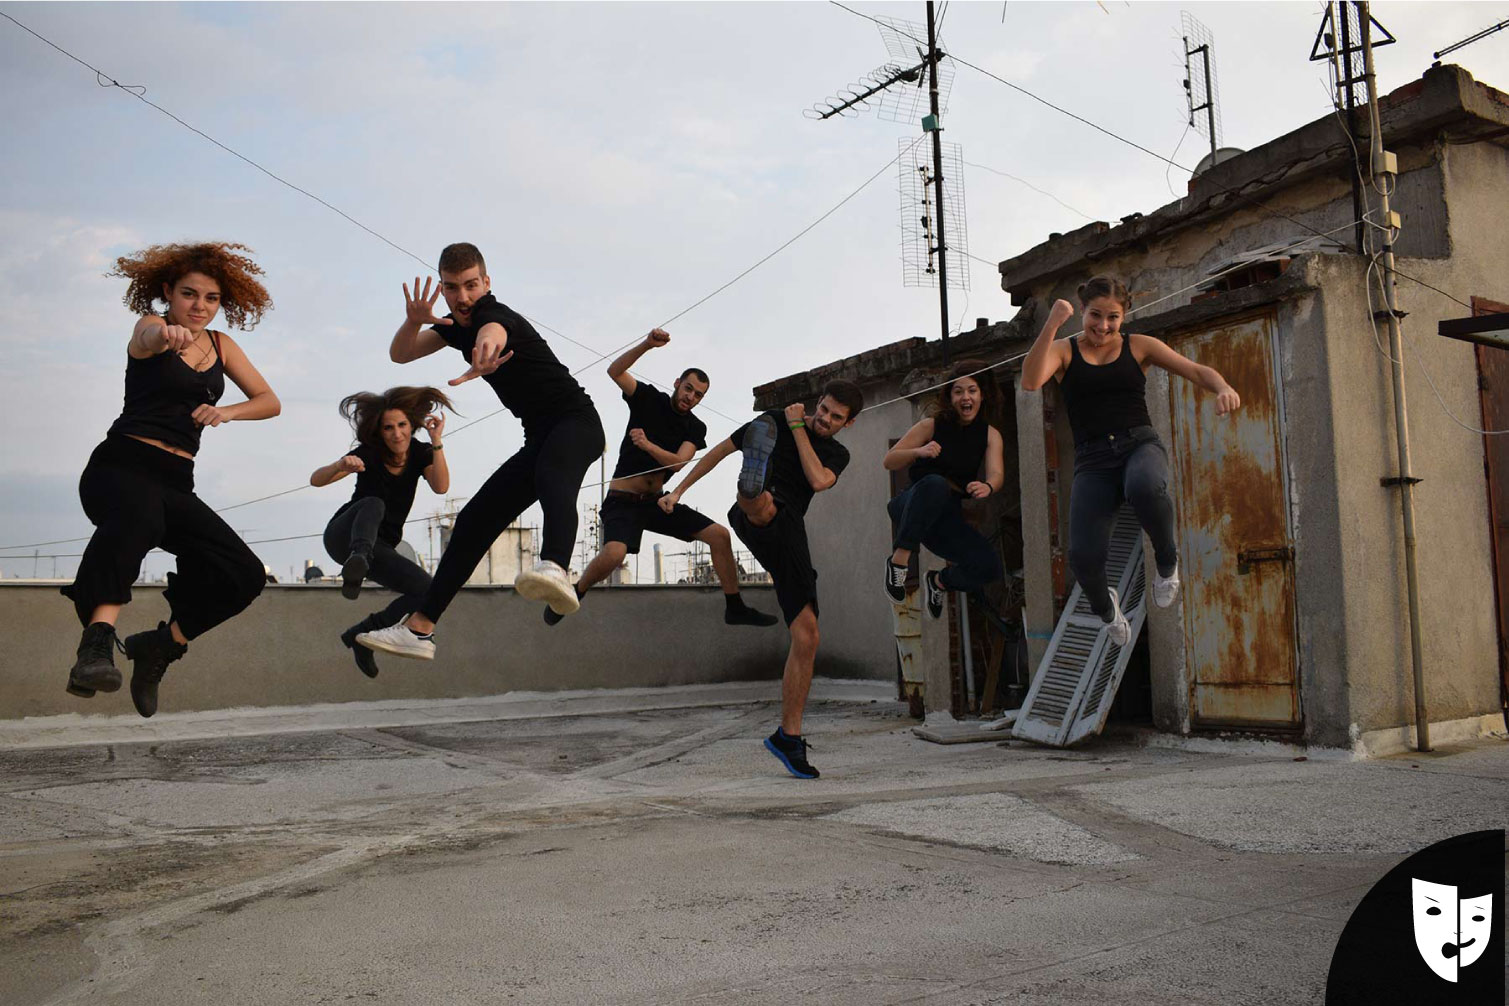
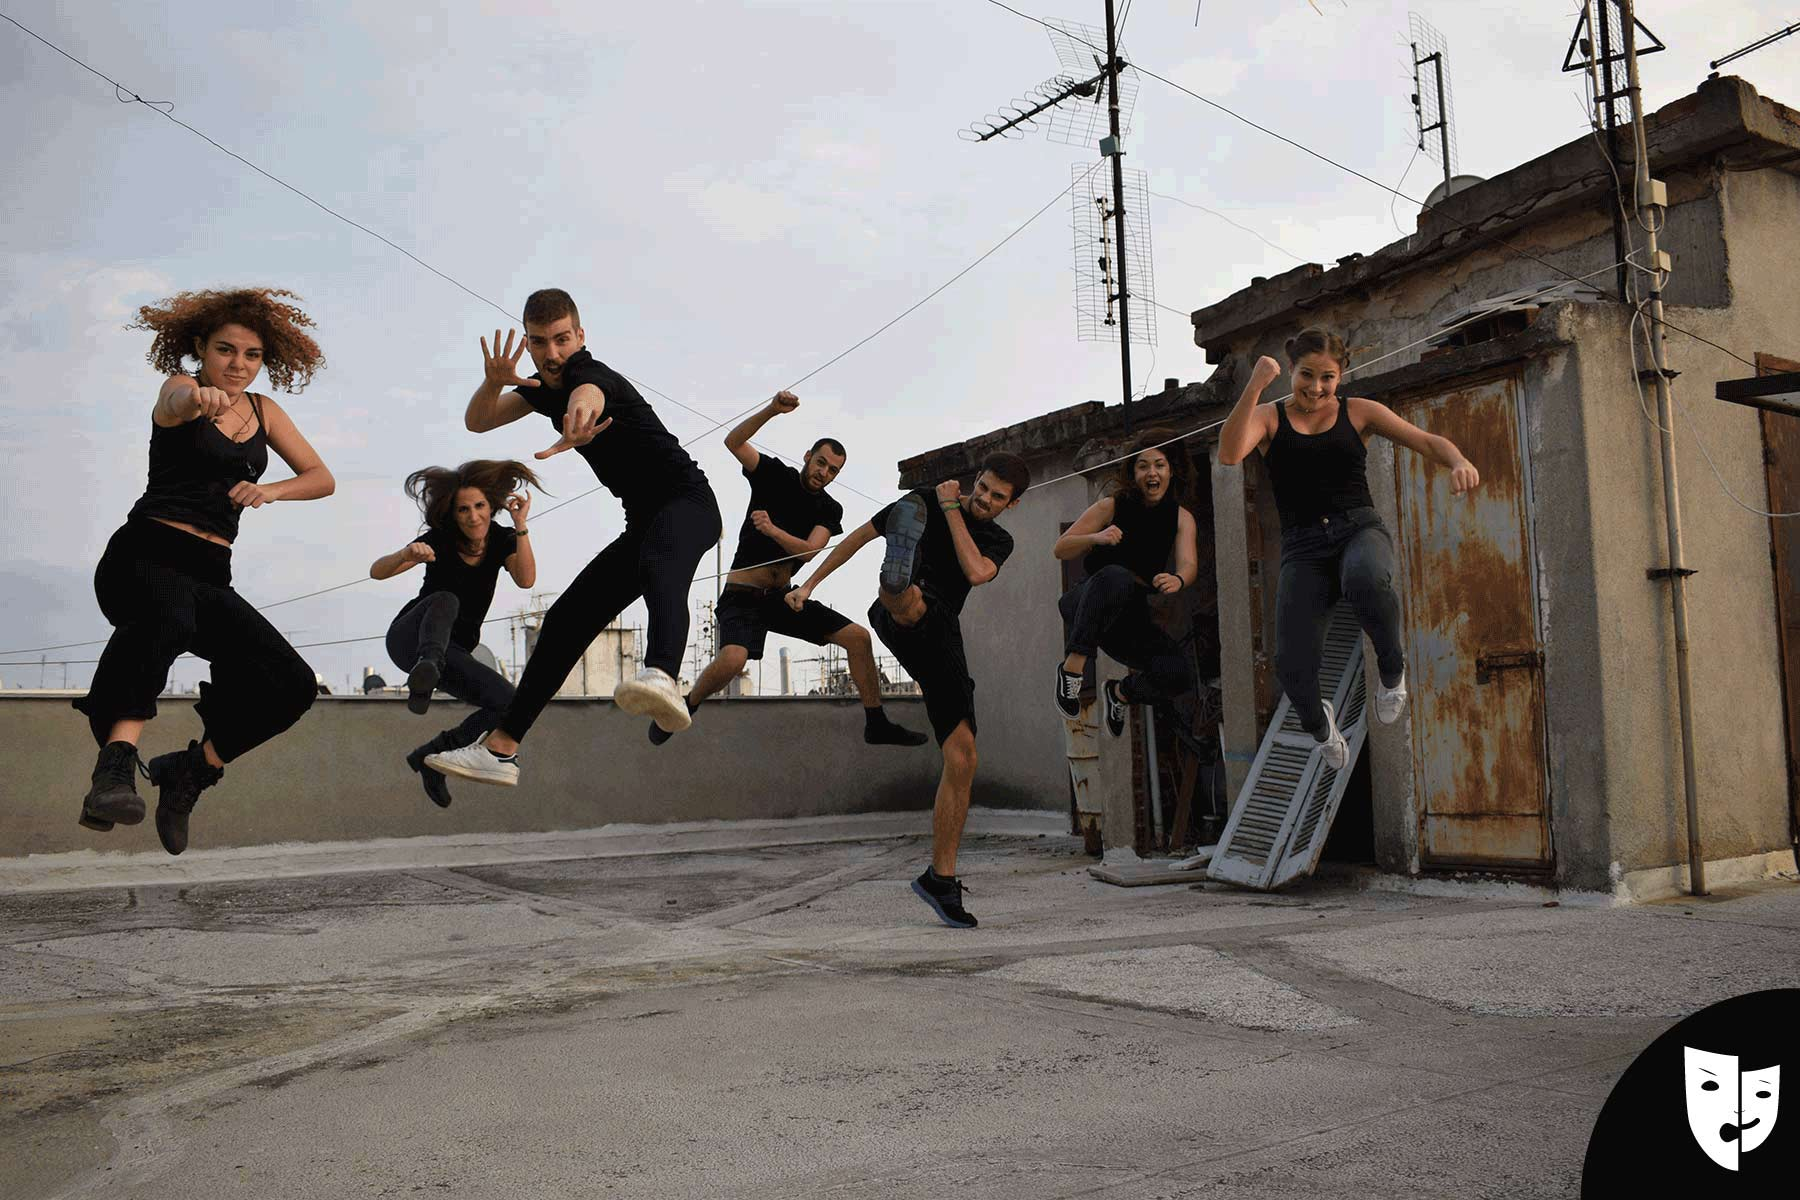
:yellow_heart:  :heart:  :yellow_heart:

diff --git a/index.html b/index.html
@@ -1579,15 +1579,19 @@
       
     <div class="row" id="hidden-performers" style="background-color:#fff;">
 
+        <div class="col-lg-12 col-sm-12 col-md-12 col-xs-12">
+          <h1 class="title hidden-xs">Performers</h1>
+        </div>
+        
     <div class="col-sm-4 col-sm-offset-2 perf" id="dromo">
-        <img src="images/dromo.png" class="img-responsive ">
+        <img src="images/dromo.jpg" class="img-responsive ">
         
         </div>
          <div class="col-sm-4 perf" id="pro">
-        <img src="images/pro.png" class="img-responsive ">
+        <img src="images/pro.jpg" class="img-responsive ">
 </div>
-        <div class="col-sm-4 col-sm-offset-4 perf">
-        <img src="images/mousa.png" class="img-responsive  ">
+        <div class="col-sm-4 col-sm-offset-4 perf" id="mousa">
+        <img src="images/mousa.jpg" class="img-responsive  ">
         </div>
 
     </div> <!--hidden-performers -->

diff --git a/style.css b/style.css
@@ -2490,19 +2490,11 @@ box-shadow: 62px 7px 58px -2px rgba(0,0,0,0.09);
         display: block;
       }
 
-#mousa:hover{
-transform: scale(1.5);
-    -webkit-transform: scale(1.5);
-    -ms-transform: scale(1.5);
-    -o-transform: scale(1.5);
-    -moz-transform: scale(1.5);
-    z-index: 100000;
-    
-}
+
 #hidden-performers{
     height:auto;
     position: relative;
-    padding-top: 3%;
+    padding-top:7%;
     width: 100%;
     margin-bottom: 3%;
 }
@@ -2519,4 +2511,16 @@ transform: scale(1.5);
     -moz-transform: scale(1.15);
     z-index: 100000;
     
+}
+#mousa{
+     border-radius: 0px 0px 50px 50px;
+overflow: hidden;
+}
+#pro{
+    border-radius: 0px 50px 50px 0px;
+    overflow: hidden;
+}
+#dromo{
+    border-radius: 50px 0px 0px 50px;
+    overflow: hidden;
 }
